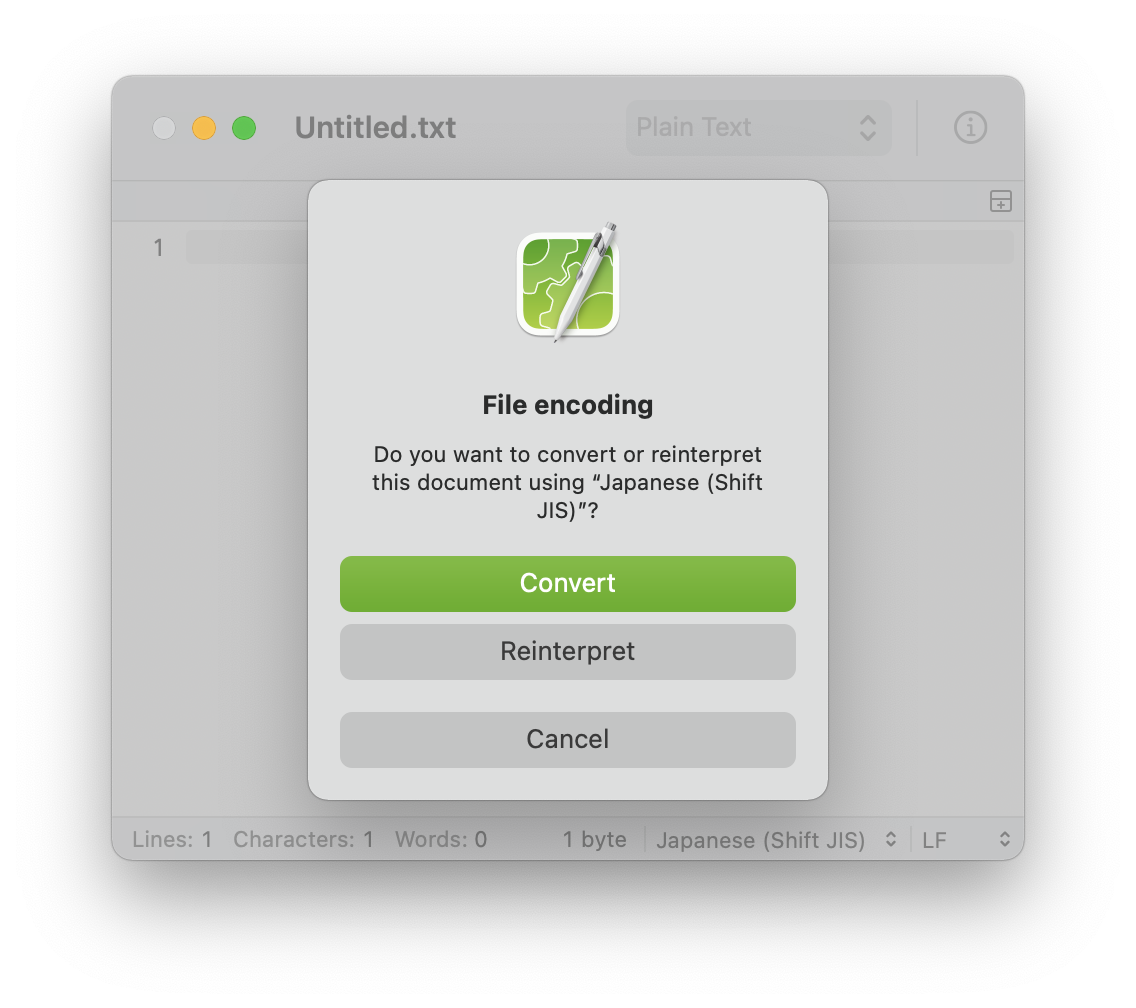
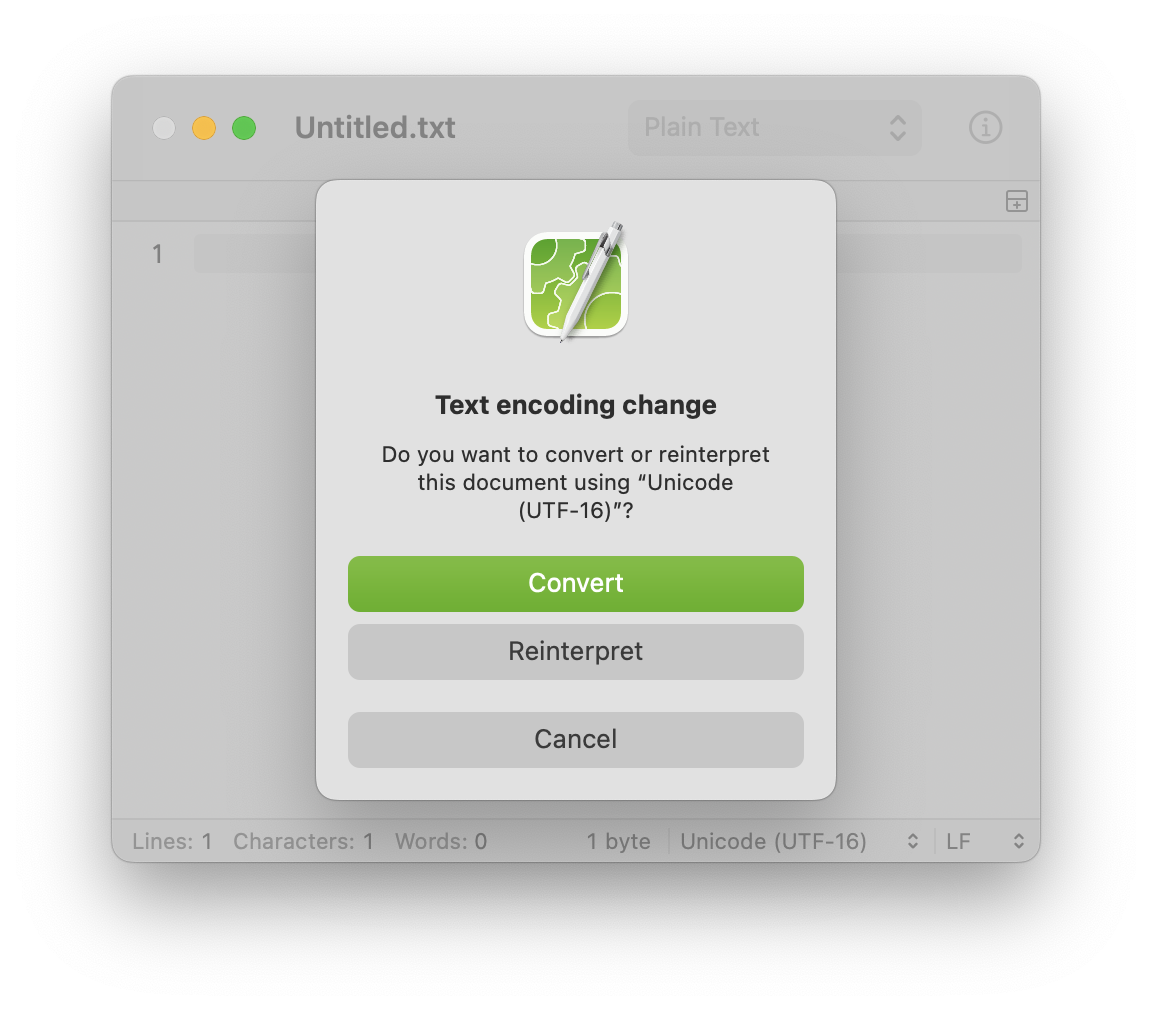
Improve encoding error messages

diff --git a/CotEditor/Sources/Document.swift b/CotEditor/Sources/Document.swift
@@ -838,7 +838,7 @@ final class Document: NSDocument, AdditionalDocumentPreparing, EncodingChanging 
         } catch {
             self.readingEncoding = nil
             
-            throw ReinterpretationError.reinterpretationFailed(fileURL: fileURL, encoding: encoding)
+            throw ReinterpretationError.reinterpretationFailed(encoding)
         }
     }
     
@@ -1029,7 +1029,7 @@ final class Document: NSDocument, AdditionalDocumentPreparing, EncodingChanging 
     
     /// Changes the text encoding by asking options to the user.
     ///
-    /// - Parameter fileEncoding: The file encoding to change.
+    /// - Parameter fileEncoding: The text encoding to change.
     @MainActor private func askChangingEncoding(to fileEncoding: FileEncoding) {
         
         assert(Thread.isMainThread)
@@ -1053,7 +1053,7 @@ final class Document: NSDocument, AdditionalDocumentPreparing, EncodingChanging 
             
             // ask whether just change the encoding or reinterpret document file
             let alert = NSAlert()
-            alert.messageText = String(localized: "Text encoding")
+            alert.messageText = String(localized: "Text encoding change")
             alert.informativeText = String(localized: "Do you want to convert or reinterpret this document using “\(fileEncoding.localizedName)”?")
             alert.addButton(withTitle: String(localized: "Convert"))
             alert.addButton(withTitle: String(localized: "Reinterpret"))
@@ -1083,7 +1083,7 @@ final class Document: NSDocument, AdditionalDocumentPreparing, EncodingChanging 
                         if self.isDocumentEdited {
                             let alert = NSAlert()
                             alert.messageText = String(localized: "The document has unsaved changes.")
-                            alert.informativeText = String(localized: "Do you want to discard the changes and reopen the document using “\(fileEncoding.localizedName)”?",
+                            alert.informativeText = String(localized: "Are you sure you want to discard the changes and reopen the document using “\(fileEncoding.localizedName)”?",
                                                            comment: "%@ is an encoding name")
                             alert.addButton(withTitle: String(localized: "Cancel"))
                             alert.addButton(withTitle: String(localized: "Discard Changes"))
@@ -1237,7 +1237,7 @@ final class Document: NSDocument, AdditionalDocumentPreparing, EncodingChanging 
 private enum ReinterpretationError: LocalizedError {
     
     case noFile
-    case reinterpretationFailed(fileURL: URL, encoding: String.Encoding)
+    case reinterpretationFailed(String.Encoding)
     
     
     var errorDescription: String? {
@@ -1246,8 +1246,8 @@ private enum ReinterpretationError: LocalizedError {
             case .noFile:
                 String(localized: "The document doesn’t have a file to reinterpret.")
                 
-            case .reinterpretationFailed(let fileURL, let encoding):
-                String(localized: "The file “\(fileURL.lastPathComponent)” couldn’t be reinterpreted using text encoding “\(String.localizedName(of: encoding)).”")
+            case .reinterpretationFailed(let encoding):
+                String(localized: "The document could not be reinterpreted using text encoding “\(String.localizedName(of: encoding)).”")
         }
     }
     
@@ -1259,7 +1259,7 @@ private enum ReinterpretationError: LocalizedError {
                 nil
                 
             case .reinterpretationFailed:
-                String(localized: "The file may have been saved using a different text encoding, or it may not be a text file.")
+                String(localized: "The document may have been saved using a different text encoding, or it may not be a text file.")
         }
     }
 }
@@ -1273,13 +1273,13 @@ struct LossyEncodingError: LocalizedError, RecoverableError {
     
     var errorDescription: String? {
         
-        String(localized: "Some characters would have to be changed or deleted in saving as “\(self.encoding.localizedName).”")
+        String(localized: "The document contains characters incompatible with “\(self.encoding.localizedName).”")
     }
     
     
     var recoverySuggestion: String? {
         
-        String(localized: "Do you want to change encoding and show incompatible characters?")
+        String(localized: "Incompatible characters are substituted or deleted in saving. Do you want to change the text encoding and review the incompatible characters?")
     }
     
     
@@ -1321,14 +1321,14 @@ private struct SavingError: LocalizedError, RecoverableError {
         
         switch self.code {
             case .lossyEncoding(let fileEncoding):
-                String(localized: "Some characters would have to be changed or deleted in saving as “\(fileEncoding.localizedName).”")
+                String(localized: "The document contains characters incompatible with “\(fileEncoding.localizedName).”")
         }
     }
     
     
     var recoverySuggestion: String? {
         
-        String(localized: "Do you want to continue processing?")
+        String(localized: "Incompatible characters are substituted or deleted in saving. Do you want to continue processing?")
     }
     
     
@@ -1337,7 +1337,7 @@ private struct SavingError: LocalizedError, RecoverableError {
         switch self.code {
             case .lossyEncoding:
                 [String(localized: "Save Available Text"),
-                 String(localized: "Show Incompatible Characters"),
+                 String(localized: "Review Incompatible Characters"),
                  String(localized: "Cancel")]
         }
     }

diff --git a/CotEditor/CotEditor.help/Contents/Resources/ja.lproj/pgs/faq_cannot_display.html b/CotEditor/CotEditor.help/Contents/Resources/ja.lproj/pgs/faq_cannot_display.html
@@ -18,7 +18,7 @@
 	<li>「フォーマット」メニューの「テキストエンコーディング」を開き、適切なエンコーディングを選択します。</li>
 	<li>「再解釈」をクリックします。</li>
 </ol>
-<p><img src="../gfx/encodingWindow@2x.png" width="568" alt=""/></p>
+<p><img src="../gfx/encodingWindow@2x.png" width="576" alt=""/></p>
 <p>ダイアログのボタンの動作は、次の通りです。</p>
 <dl>
 	<dt>変換</dt>

diff --git a/CotEditor/CotEditor.help/Contents/Resources/en.lproj/pgs/faq_cannot_display.html b/CotEditor/CotEditor.help/Contents/Resources/en.lproj/pgs/faq_cannot_display.html
@@ -18,7 +18,7 @@
 	<li>Choose Format &gt; Text Encoding, and then choose encoding from the list.</li>
 	<li>When a dialog appears, click Reinterpret.</li>
 </ol>
-<p><img src="../gfx/encodingWindow@2x.png" width="568"/></p>
+<p><img src="../gfx/encodingWindow@2x.png" width="576"/></p>
 <p>The behavior of each button in this dialog is as follows:</p>
 <dl>
 	<dd>Converts the text from the current encoding to the new one.</dd>

diff --git a/CHANGELOG.md b/CHANGELOG.md
@@ -6,6 +6,13 @@
 ### Improvements
 
 - Suppress displaying the dialog for saving in an incompatible encoding when once allowed.
+- [trivial] Improve alert messages for incompatible text encodings.
+
+
+### TODO
+
+- Some text are not localized yet.
+
 
 
 ### Fixes
